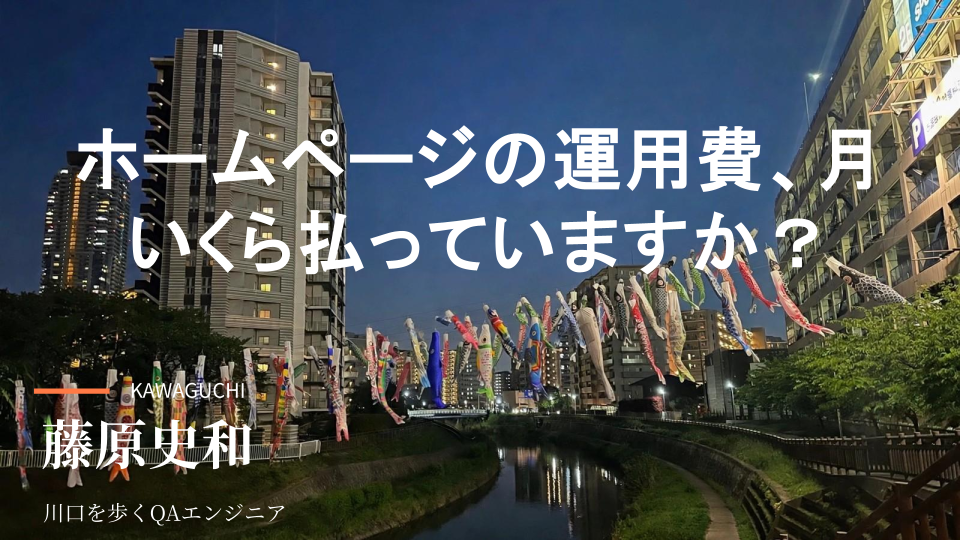
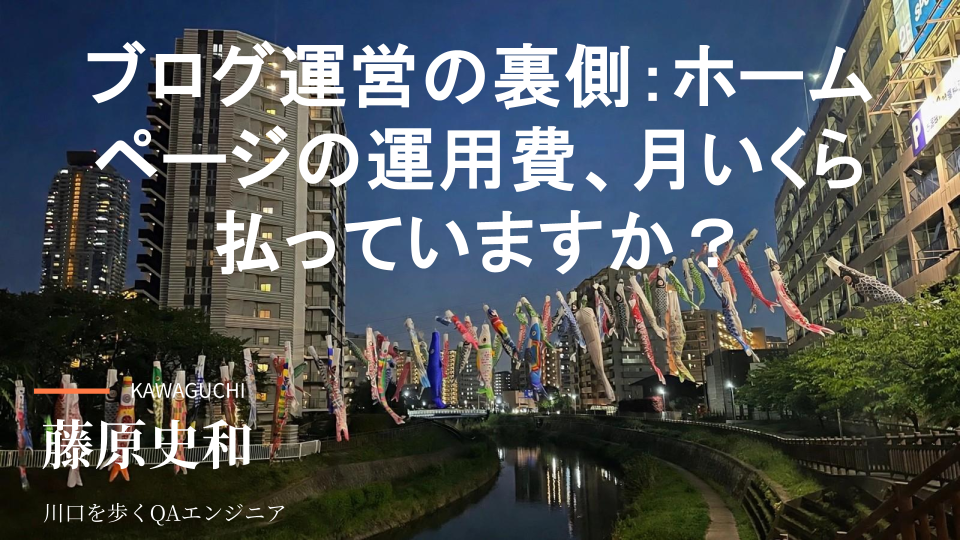
deploy: 11cd950acb0425f005d583228d697034d6067ba7

diff --git a/staging/1egcvG9FvC232mYN--ZYr7nH65uVPDT5QgUlNhAGAm-w.html b/staging/1egcvG9FvC232mYN--ZYr7nH65uVPDT5QgUlNhAGAm-w.html
@@ -12,8 +12,8 @@
     <link rel="icon" type="image/png" sizes="32x32" href="/blog/favicon-32.png">
     <link rel="icon" type="image/png" sizes="16x16" href="/blog/favicon-16.png">
     <link rel="apple-touch-icon" sizes="180x180" href="/blog/apple-touch-icon.png">
-    <meta property="og:title" content="2026-11-07 ホームページの運用費、月いくら払っていますか？" />
-    <meta property="og:description" content="私のホームページとブログについて、「どうやって作ってるんですか？」と問い合わせをいただくことがあります。 仕組みそのものは、前に書いた「サーバー代ゼロ」という記事のとおりです。ただ、あれは個人の趣味のサイトとしての運用費でした。今回は「もし" />
+    <meta property="og:title" content="2026-11-07 ブログ運営の裏側：ホームページの運用費、月いくら払っていますか？" />
+    <meta property="og:description" content="このブログの運営の裏側の話です。 私のホームページとブログについて、「どうやって作ってるんですか？」と問い合わせをいただくことがあります。 仕組みそのものは、前に書いた「サーバー代ゼロ」という記事のとおりです。ただ、あれは個人の趣味のサイト" />
     <meta property="og:type" content="article" />
     <meta property="og:url" content="https://freddiefujiwara.com/blog/staging/1egcvG9FvC232mYN--ZYr7nH65uVPDT5QgUlNhAGAm-w" />
     <meta property="og:image" content="https://freddiefujiwara.com/blog/staging/ogp/1egcvG9FvC232mYN--ZYr7nH65uVPDT5QgUlNhAGAm-w.png" />
@@ -47,7 +47,7 @@
         }
       })();
     </script>
-    <title>2026-11-07 ホームページの運用費、月いくら払っていますか？</title>
+    <title>2026-11-07 ブログ運営の裏側：ホームページの運用費、月いくら払っていますか？</title>
       <!-- Google tag (gtag.js) -->
     <script async src="https://www.googletagmanager.com/gtag/js?id=G-W2C6FNCW86"></script>
     <script>
